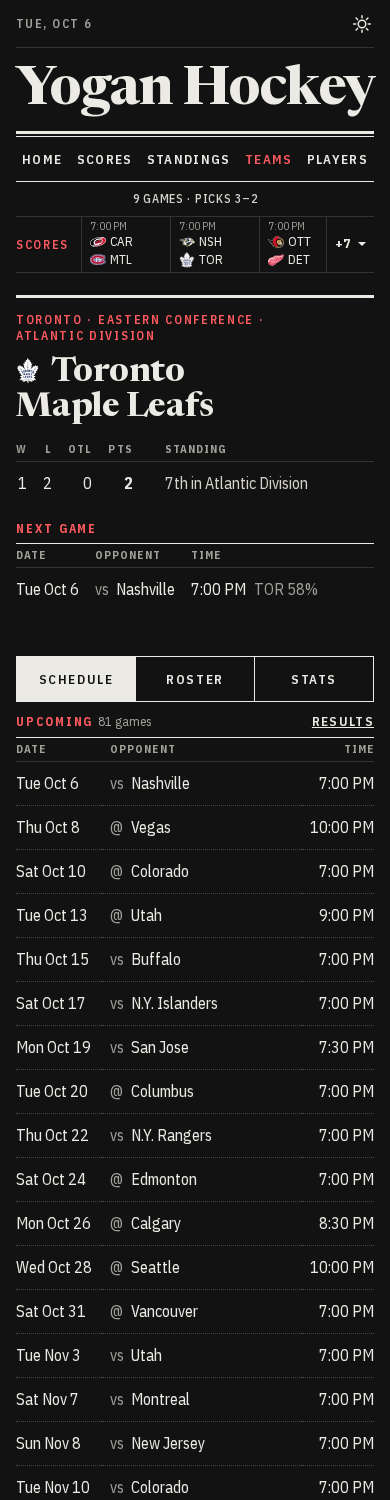
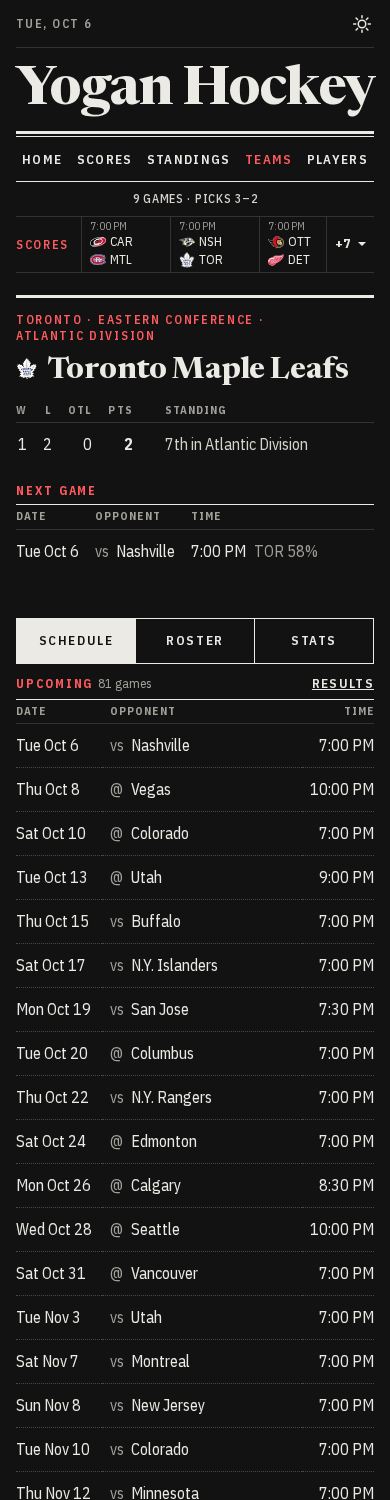
A club's name is one line on its page, so the font's arrival cannot rewrap it (#225)
The Times New Roman fallback sets a club's name 0.7% to 5.5% narrower than
Newsreader and the Noto Serif one 1% wider to 4% narrower, letter by letter, so
no size-adjust keeps 32 names on the same lines at every phone's width. The
team's headline no longer wraps: text-nameplate is the headline's size, or
8.45cqw of the header where the longest name would not fit at it (30px at 390).

scripts/headline-lines.mjs sets every name in each face and counts.

Changed region(s): [[0.0308, 0.2147, 0.9538, 1.0], [0.6462, 0.4293, 0.6769, 0.46]]

diff --git a/apps/web/components/team/team-header.tsx b/apps/web/components/team/team-header.tsx
@@ -9,14 +9,14 @@ import {
 } from "@yogan-hockey/ui/components/ledger";
 import { Section } from "@yogan-hockey/ui/components/section";
 import { type TeamStanding, teamPlace, teamStandingLine } from "../../lib/team-page";
-import { storyHeadline, storyKicker, storyRule } from "../story/type";
+import { nameplate, storyKicker, storyRule } from "../story/type";
 import { TeamMark } from "../team-mark";
 import { EmptyLedger } from "./empty-ledger";
 
 /**
  * The head of a team's page, set as a story is (docs/design/agate.md § Page anatomy): a heavy
  * rule, a red line saying where the team plays and in which conference and division, its name as
- * the headline with its mark, and its record so far in agate, ending in its place in the division.
+ * the headline with its mark (on one line, so the header is the size of its column's container), and its record so far in agate, ending in its place in the division.
  * `standing` is where the league standings have the team; without it the red line is the city
  * alone and the place is a dash.
  */
@@ -31,7 +31,7 @@ export function TeamHeader({
 
   return (
     <Section>
-      <header data-slot="team-header" className={storyRule}>
+      <header data-slot="team-header" className={`@container ${storyRule}`}>
         <p className={storyKicker}>
           {/* A phone breaks the line between two of these, never inside one. */}
           {place.flatMap((part, index) => [
@@ -42,7 +42,7 @@ export function TeamHeader({
             " ",
           ])}
         </p>
-        <h1 className={`mt-3 ${storyHeadline}`}>
+        <h1 className={`mt-3 ${nameplate}`}>
           {/* The one place a team's mark is drawn on its page (agate.md, Decisions). */}
           <TeamMark teamId={team.id} size="headline" eager className="mr-[0.3em]" />
           {team.name}

diff --git a/packages/ui/src/theme.css b/packages/ui/src/theme.css
@@ -25,7 +25,8 @@
  * `text-score` 16px, a score; `text-title` a serif section title, 32px and 30px on a phone.
  * The serif sizes of a story (agate.md § Page anatomy), each with its line and, where the
  * prototype tightens it, its tracking: `text-headline` 34 to 40px with the window, a headline
- * (which also wants `[font-variation-settings:'opsz'_60]`); `text-deck` 18 to 19px, the sentence
+ * (which also wants `[font-variation-settings:'opsz'_60]`); `text-nameplate` a club's name as
+ * its page's headline, the same but for a narrow column; `text-deck` 18 to 19px, the sentence
  * under it; `text-prose` 17px, a line of prose or a pick; `text-stat` 72px and 52px on a phone,
  * the one big figure of a box; `text-figure` 36px, a count in a row of counts.
  * Capitals are tracked by what they are: `tracking-head` a column header and the nav,
@@ -216,6 +217,15 @@
   --text-headline: clamp(34px, 3vw, 40px);
   --text-headline--line-height: 1.02;
   --text-headline--letter-spacing: -0.015em;
+  /*
+   * A club's name as its page's headline, in an `@container` and never wrapped: the headline's
+   * size, or less where the column is too narrow for the longest name at it. "Columbus Blue
+   * Jackets" with its mark is 11.54em wide in Newsreader, so 8.45cqw leaves it 2.5% of the
+   * column, and every name is one line in any face (#225, `scripts/headline-lines.mjs`).
+   */
+  --text-nameplate: min(clamp(34px, 3vw, 40px), 8.45cqw);
+  --text-nameplate--line-height: 1.02;
+  --text-nameplate--letter-spacing: -0.015em;
   --text-deck: clamp(18px, 1.4vw, 19px);
   --text-deck--line-height: 1.4;
   --text-prose: 17px;

diff --git a/apps/web/components/story/type.ts b/apps/web/components/story/type.ts
@@ -14,9 +14,19 @@ export const storyRule = "border-rule border-t-3 pt-3.5 data-live:border-live";
 export const storyKicker =
   "font-label text-kicker text-tag uppercase normal-nums leading-[1.35] tracking-kicker";
 
-/** The serif headline. Its optical size is a class, since a size's token cannot carry one. */
-export const storyHeadline =
-  "text-balance font-serif font-strong text-headline normal-nums [font-variation-settings:'opsz'_60]";
+/** A headline's face. Its optical size is a class, since a size's token cannot carry one. */
+const headlineFace = "font-serif font-strong normal-nums [font-variation-settings:'opsz'_60]";
+
+/** The serif headline. */
+export const storyHeadline = `text-balance text-headline ${headlineFace}`;
+
+/**
+ * A club's name as its page's headline: one line on any screen, a little smaller than a headline
+ * where the column is narrow (30px at 390), inside an `@container`. A name that wrapped did so on
+ * different lines in the fallback face than in Newsreader, and no resizing of the fallback follows
+ * 32 names letter for letter, so the page under it dropped a line when the font arrived (#225).
+ */
+export const nameplate = `whitespace-nowrap text-nameplate ${headlineFace}`;
 
 export const storyDeck = "font-serif text-deck text-note normal-nums";
 

diff --git a/packages/ui/src/cn.test.ts b/packages/ui/src/cn.test.ts
@@ -12,6 +12,7 @@ describe("cn", () => {
   it("lets a later size replace an earlier one, and a later colour an earlier one", () => {
     expect(cn("text-body", "text-small")).toBe("text-small");
     expect(cn("text-note", "text-aside")).toBe("text-aside");
+    expect(cn("text-headline text-note", "text-nameplate")).toBe("text-note text-nameplate");
   });
 
   it("knows a weight token from a typeface", () => {

diff --git a/packages/ui/src/cn.ts b/packages/ui/src/cn.ts
@@ -19,6 +19,7 @@ export const cn = createCn({
         "title",
         "wordmark",
         "headline",
+        "nameplate",
         "deck",
         "prose",
         "stat",

diff --git a/docs/agents/build-notes.md b/docs/agents/build-notes.md
@@ -2,6 +2,15 @@
 
 What earlier tickets learned that the code does not show. Read before building; add a line when you learn something the next subagent would otherwise rediscover. Keep each note to what cannot be found by reading the code.
 
+## A club's name is one line (#225)
+
+- **No `size-adjust` makes a fallback as wide as Newsreader for 32 names.** Set as a team's headline (34px bold, optical size 60, the mark beside it), the letters of a name in the Times New Roman fallback are 0.7% (San Jose Sharks) to 5.5% (Pittsburgh Penguins, Minnesota Wild) narrower than in Newsreader, and in the Noto Serif one 1% wider (Nashville Predators) to 4% narrower (Utah Mammoth). That spread is the letters themselves. Sized for the middle of it a fallback would still be 2.4% out at each end, 8px of a 340px name, so a name within 8px of the column's width changes its lines at the swap on some phone: at 390 it was Toronto and Washington (364 and 363px in a 358px column), at 360 Philadelphia (338px in 328px; two lines in Newsreader and Noto, one in Times). The bold serif's 106.82% is also Home's headlines' ("Kraken 5, Capitals 3"), which pass, so it was left alone and so was every other face.
+- **So the name does not wrap** (`nameplate` in `components/story/type.ts`, `text-nameplate` in `theme.css`): `white-space: nowrap`, and a size of `min(the headline's, 8.45cqw)` of the header, which is an `@container`. The longest name, "Columbus Blue Jackets" with its mark, is 11.54em wide in Newsreader (392.4px at 34px) and no fallback is wider, so 8.45cqw leaves 2.5% of the column: 30.25px at 390, 27.7px at 360, 24.3px at 320, and the headline's own 34px from 434px up. `text-balance` is gone from it, having nothing to balance. A token in `@theme inline` cannot say `var(--text-headline)` (inline tokens are not custom properties in the page), so the clamp is written out twice.
+- **A longer name, or a wider face, overflows to the right rather than wraps.** A club that moves and takes a name over 11.8em wants a smaller `cqw`: `node scripts/headline-lines.mjs <build> [widths]` sets all 32 names from the Teams tab in the team page's own `h1` in Newsreader and in each fallback, prints lines and widths, and exits 1 on a name whose lines differ or that is wider than its column. Run at 320, 340, 360, 375, 390, 393, 402, 412, 414, 428, 430, 434, 440, 480, 600, 767, 768, 1024, 1280 and 1440: one line in every face, nothing over. Georgia and the generic `serif` at the tail of the stack are unsized and unmeasured; a device with neither Times New Roman nor Noto Serif could draw a name wider than its column until Newsreader arrives.
+- **`font-load.mjs` after it**: `/nhl/teams/21 390 held 2000ms` moves 5.1px (0.0016 at the swap) where it moved 35px; every other line is what it was (at most 16px, the player's page, and 0.0051).
+- **`font-fallback-measure.mjs` takes its team names from `main li`, whose text is the name and the abbreviation run together** ("Anaheim DucksANA at Ottawa SenatorsOTT"), so #183's "serif headline" and "serif deck" ratios were measured over names with three capitals on the end. Not changed here: the numbers it gave pass on every page, and correcting the corpus would move all of them. `headline-lines.mjs` reads `main li a`, the name alone.
+- **Pictures retaken**: `team-390-light`, `team-390-dark` and `team-stats-390-dark` (the name on one line at 30px, and the page under it 38px higher), by `node scripts/agate-routes.mjs <dev server> <scratch> team`, which gave the other five `team*` pictures back byte for byte. It needs `pnpm dev`'s migration (`pnpm --filter @yogan-hockey/web db:migrate:local`) before a bare `vite dev`, or `seedPicks` waits 30 seconds for a table that is not there; it does not run against `vite preview`.
+
 ## Favorites were removed (#223)
 
 Ryan asked for it on 2026-10-12: favorite teams and players were ids in the browser's `localStorage`, which the server cannot see, so everything they drew arrived after hydration and moved the page. They come back with Accounts (#132, #133), read on the server by a loader.
@@ -11,7 +20,7 @@ Ryan asked for it on 2026-10-12: favorite teams and players were ids in the brow
 - **The old keys are left in the browser and never read** (`favorite_teams`, `favorite_players`); nothing deletes them. `e2e/dashboard.spec.ts` loads Home with both set and finds no heart and no word "favorite".
 - **What a test waits on now that Favorites cannot say the page has hydrated**: `pageHydrated(page)` in `e2e/test.ts`.
 - **Layout shift on load at 390 wide** (a build under `vite preview` in fixture mode, a phone's CPU and network as `scripts/measure-performance.ts` throttles them, both old keys set, three loads each, all three alike). Before: Home 0.0007, `/nhl/teams/21` 0.0062, `/players` 0.0044, `/nhl/live` 0.0128. After: 0.0007, 0.0253, 0.0012, 0.0012. The 0.0031 of a favorite's game taking the lead of the strip is gone from every page, and the 0.0085 of its row taking the lead of its section from `/nhl/live`. Home's number never showed its Favorites block, which is below a phone's first screen: its page grew 31px after it was drawn (2429 to 2460) and now grows 9px (2318 to 2327).
-- **The team's page at 390 is worse, and it is the fonts, not hydration.** Without the heart the headline has the whole column (358px for 326px). "Toronto Maple Leafs" fits on one line in the fallback serif and takes two in Newsreader, so the page under it moves down 35px when the face arrives (0.0228). With the heart it took two lines in both. Of the 32 clubs' names, two change their number of lines at the swap now (Toronto, Washington) and none did before. `scripts/font-load.mjs` fails on it: `/nhl/teams/21 390 held 2000ms ... moved 35px` against its 32px bar; every other line of it passes. Not fixed in #223: it wants the bold serif's fallback as wide as Newsreader at the headline's size, or a headline that cannot change its lines.
+- **The team's page at 390 is worse, and it is the fonts, not hydration.** Without the heart the headline has the whole column (358px for 326px). "Toronto Maple Leafs" fits on one line in the fallback serif and takes two in Newsreader, so the page under it moves down 35px when the face arrives (0.0228). With the heart it took two lines in both. Of the 32 clubs' names, two change their number of lines at the swap now (Toronto, Washington) and none did before. `scripts/font-load.mjs` fails on it: `/nhl/teams/21 390 held 2000ms ... moved 35px` against its 32px bar; every other line of it passes. Not fixed in #223; #225 did, with a headline that cannot change its lines ("A club's name is one line", next).
 - **What still moves on a load, everywhere**: the strip and the section nav by under a pixel as the faces arrive (0.0003 to 0.0008), and on a team's page the schedule's time column when `LocalTime` rewrites "7:00 PM ET" as the visitor's own (0.0004 and 0.0011).
 - **The kept pictures retaken**: the eight `home-*` (the prototype's Home, shot with `?slate=<slate>&theme=<theme>&chrome=0`, a 900px-high viewport, `America/New_York`, reduced motion, the whole page, and Chromium launched with `--font-render-hinting=none`; no script in the repository makes them, and that recipe gives the pictures of #168 back but for the shade of the live dots and of one letter of the nav, 47 to 297 pixels a picture, and `home-tonight-1440-*` exactly), and of the site `team-390-light`, `team-390-dark`, `team-1440-light`, `team-roster-1440-light`, `team-stats-390-dark`, `player-390-light`, `player-1440-dark`, `players-search-390-light` and `players-search-1440-dark`. The team's pictures also say "7th in Atlantic Division" where the old ones said "6th": `main` already drew 7th, and the old pictures were behind it.
 - **`agate-routes.mjs` rewrites four pictures it has no reason to**: the `scores-*` ones differ from run to run by the "updated" clock and by the shade of the live dots. `git restore` them.
@@ -162,7 +171,7 @@ What each script measures is the first note under "Agate, the whole of it".
 
 The look is `docs/design/agate.md`, which also records the decisions; the sections below are one ticket each, newest first, and what they say about the tuned ledger's shell further down (#153, #139, #138, #130) is history.
 
-- **What measures what.** Home against the prototype: `node scripts/agate-home-compare.mjs <site>`; the masthead and footer: `agate-masthead-compare.mjs`; the primitives: `agate-primitives.mjs <prototype> <site>`; the NHL routes and the team page: `agate-routes.mjs <site>`; the game page, players and error pages: `agate-game-shots.ts <site>`; every tap target on every route at 390: `tap-targets.mjs <site>`; the installed site (manifest, icons, the notch): `install-check.mjs <site>`; the fonts' arrival on a build: `font-load.mjs <build>` (exits 0 since #183); the `size-adjust` each fallback face needs: `font-fallback-measure.mjs <build>`, whose numbers go into `font-fallbacks.ts`, which writes `packages/ui/src/font-fallbacks.css`. `look-shots.mjs`, `look-compare.mjs`, `look-same.mjs` and `team-marks-shots.sh` were the tuned ledger's and are deleted; `look-routes.mjs` is kept as the list of routes the others share. `ticker-shots.mjs <site> <outDir>` (the score strip on `/skeleton/live`'s three slates) and `screenshot.mjs` (one shot, with `--store` and `--eval`) were run on Agate and work as they are.
+- **What measures what.** Home against the prototype: `node scripts/agate-home-compare.mjs <site>`; the masthead and footer: `agate-masthead-compare.mjs`; the primitives: `agate-primitives.mjs <prototype> <site>`; the NHL routes and the team page: `agate-routes.mjs <site>`; the game page, players and error pages: `agate-game-shots.ts <site>`; every tap target on every route at 390: `tap-targets.mjs <site>`; the installed site (manifest, icons, the notch): `install-check.mjs <site>`; the fonts' arrival on a build: `font-load.mjs <build>` (exits 0 since #183, but for #223 to #225); every club's name as its page's headline in each face: `headline-lines.mjs <build> [widths]`; the `size-adjust` each fallback face needs: `font-fallback-measure.mjs <build>`, whose numbers go into `font-fallbacks.ts`, which writes `packages/ui/src/font-fallbacks.css`. `look-shots.mjs`, `look-compare.mjs`, `look-same.mjs` and `team-marks-shots.sh` were the tuned ledger's and are deleted; `look-routes.mjs` is kept as the list of routes the others share. `ticker-shots.mjs <site> <outDir>` (the score strip on `/skeleton/live`'s three slates) and `screenshot.mjs` (one shot, with `--store` and `--eval`) were run on Agate and work as they are.
 - **Every page has exactly one `h1`**, but for Home's own error page (`components/shell/error-page.tsx` at `/`: the wordmark and the error's `PageHeader`, two) and `/skeleton/dashboard` and `/skeleton/picks` (none), which are left. Home's is the wordmark (`Wordmark` in `masthead-client.tsx`, an `h1` on `/` and a paragraph elsewhere, by `usePathname` from `lib/use-page-address.ts`); every other page's is its `PageHeader` or its story's headline. Home's title is the site's name alone.
 - **The wordmark's size, line and tracking are `text-wordmark`**, and its class is `components/shell/wordmark.ts`, which the masthead reads.
 - **The phone's section nav sticks below the status bar** (`top: var(--safe-top)`), and a fixed strip of the page's colour covers what scrolls past above it; both are nothing in a browser tab. `install-check.mjs` scrolls an emulated notched phone and checks it.
@@ -173,7 +182,7 @@ The look is `docs/design/agate.md`, which also records the decisions; the sectio
 - **A file's unused export is not an unused file.** `rg -l TeamName` found only `team-name.tsx`, which also exports `teamHref`; deleting it broke four imports. Typecheck before committing a deletion.
 - **The worktree guard refuses any command line with a heredoc, `$(…)`, a loop, or the word "git" anywhere in it** (a path under `.github` counts). Scripts go in a file written with the editor and run from there.
 - **A final's mark on a phone needs 124px under the status**: "WPG 88% Wrong" is 123px, and the line is `truncate`, so at the old 112px column the mark was cut off whole ("FLA 63%…"). The column is 132px on a phone (`FIXED_GAME_COLUMNS.status`), and the mark there is 16px high with `-my-1`, since a 20px box in a 17px line that hides its overflow loses its top and bottom edge and makes its row 3px taller than the others. `/skeleton/live` draws no pick: to see the marks, give its `LiveScores` a `picks` prop for `sample-1` to `sample-4` and do not commit it.
-- **`font-load.mjs` passed from #183 until #223, measured unhinted; it now fails on a team's page at 390 ("Favorites were removed", near the top).** On #174, with the font files held two seconds, Home at 390 shifted 0.054 and grew 104px (its leads' headlines wrapped on other lines in the fallback than in Newsreader at 34px) and the game page at 390 moved 66px (three scoring plays took a line fewer in Plex). Now every load shifts at most 0.006 at the swap and moves at most 16px (the player's page), and Home and the game page move 0px. The script timed the swap from `loadingdone`, which is the last file's arrival, so it counted no shift at all on Home; it counts from the first font file's `responseEnd`.
+- **`font-load.mjs` passes, measured unhinted; between #223 and #225 it failed on a team's page at 390 ("Favorites were removed" and "A club's name is one line", near the top).** On #174, with the font files held two seconds, Home at 390 shifted 0.054 and grew 104px (its leads' headlines wrapped on other lines in the fallback than in Newsreader at 34px) and the game page at 390 moved 66px (three scoring plays took a line fewer in Plex). Now every load shifts at most 0.006 at the swap and moves at most 16px (the player's page), and Home and the game page move 0px. The script timed the swap from `loadingdone`, which is the last file's arrival, so it counted no shift at all on Home; it counts from the first font file's `responseEnd`.
 - **The fallback faces are the theme's own** (#183). `packages/ui/src/font-fallbacks.css` is written by `node scripts/font-fallbacks.ts` and never edited by hand (Biome skips it; `scripts/font-fallbacks.test.ts` fails when the file is not what the script writes). Each fallback is a regular cut (weights 100 to 599) and a bold cut (600 to 900), since a bold is wider than its regular by a different amount in every face. The fallbacks before #183 were one regular cut each, so a bold headline was a synthesised bold sized for the regular. What was learned making them:
   - **`local("Arial")` and `local("Times New Roman")` find nothing on Linux.** Chromium does not pass a `local()` through fontconfig's aliases, so a fallback that names only those never applied on this machine and what #174 measured was the unsized Liberation faces. The Liberation names are in `src` themselves. Noto's regular answers to `local("Noto Serif Regular")` here, not `local("Noto Serif")`.
   - **Capsize's `size-adjust` is measured, not taken.** `@capsizecss/core` works the width out from how often each letter is used in English, which is within 1% of the site's own text for about half the pairs and 3 to 6% out for the rest (Newsreader regular over Times New Roman: 105.5% against a measured 99.6%), and 5% is a headline's second line. `font-fallback-measure.mjs` sets the site's own text, and every team's name as a headline and as a deck, in the real face and in each local one; its long-line ratio is the `size-adjust`, capsize's number is in a comment above each rule, and capsize still works out the ascent, descent and line gap.
@@ -296,7 +305,7 @@ The spec is `docs/design/agate.md`.
 - **`cn` already knows `font-serif` and `font-agate` are typefaces** (tailwind-merge takes any `font-*` it has not been told is a weight as a family), so neither needs naming in `cn.ts`; `cn.test.ts` holds it.
 - **The weights moved with the face**: `font-body` is 400 and `font-label` 600 (they were 500 and 500 for Geist Mono). The sizes, `py-row` and the spacing scale were still the tuned ledger's in #168 (#172 set Agate's sizes, above), and `--live` is now `var(--kicker)`.
 - **`--positive` by day is #166534, not the tuned ledger's #15803d**, which is 4.8:1 on the page but 4.4:1 on the row under the pointer (`--highlight`). Every text role passes AA on both grounds in both themes, which `packages/ui/src/theme.test.ts` holds; `--label` and `--aside` are one grey. `--input` and `--ring` are that grey too, since `--rule-head` is now a hairline too faint for a control's edge.
-- **The font swap moves a word, not the page, but for a team's headline at 390 since #223** ("Favorites were removed", near the top). #168 measured it so, #174 found it failing on a phone for Home and the game page, and #183 fixed it with the theme's own fallback faces (the notes under "Agate, the whole of it"). The fallbacks used until #183 were Times New Roman and Arial resized to the faces' average width, one regular cut each, not letter for letter as Geist Mono's monospace fallback was. In #168 `scripts/font-load.mjs` with the files held two seconds measured a layout shift at the swap between 0.003 and 0.021 and a ledger cell moving sideways by up to 24px (the player's page). Its bar since #174 is Agate's: it exits 1 over 0.05 of shift or 32px at the swap, on a font from another origin, or on one not preloaded (the italic excepted). Nothing moves on an ordinary load, where the files are preloaded.
+- **The font swap moves a word, not the page** (a team's headline at 390 did move it from #223 to #225: "A club's name is one line", near the top). #168 measured it so, #174 found it failing on a phone for Home and the game page, and #183 fixed it with the theme's own fallback faces (the notes under "Agate, the whole of it"). The fallbacks used until #183 were Times New Roman and Arial resized to the faces' average width, one regular cut each, not letter for letter as Geist Mono's monospace fallback was. In #168 `scripts/font-load.mjs` with the files held two seconds measured a layout shift at the swap between 0.003 and 0.021 and a ledger cell moving sideways by up to 24px (the player's page). Its bar since #174 is Agate's: it exits 1 over 0.05 of shift or 32px at the swap, on a font from another origin, or on one not preloaded (the italic excepted). Nothing moves on an ordinary load, where the files are preloaded.
 - **`vite preview` without `ESPN_FIXTURES=1` leaves tonight's real games in `apps/web/.cloudflare/state`**, and the dev server Playwright starts then shows them (`e2e/shell.spec.ts` read "final 3" where the fixtures have "to come 9"). Delete `apps/web/.cloudflare/state` and run again.
 - **Two worktrees must not share port 5173**: Playwright reuses whatever answers there. `PORT=5391 pnpm test:e2e` gives a run its own dev server.
 

diff --git a/docs/design/agate.md b/docs/design/agate.md
@@ -47,6 +47,7 @@ Both faces are self-hosted: the font files are the site's own (`apps/web/public/
 |---|---|---|---|
 | Wordmark (`text-wordmark`) | Newsreader, opsz 72 | `clamp(54px, 9vw, 120px)` → 54px, less under 390px | 700 / .92 / -0.025em |
 | Headline | Newsreader, opsz 60 | 40 → 34px | 700 / 1.02 / -0.015em, `text-wrap: balance` |
+| A club's name on its page (`text-nameplate`) | Newsreader, opsz 60 | 40 → 34px, less under 434px (30px at 390, 28px at 360) | 700 / 1.02 / -0.015em, no wrap |
 | Section title ("Standings") | Newsreader | 32 → 30px | 700 / 1.1 / -0.01em |
 | Big stat ("29–14") | Newsreader | 72 → 52px | 700 / .95, lining nums, no wrap |
 | Deck | Newsreader | 19 → 18px | 400 / 1.4, `--note` |
@@ -130,7 +131,7 @@ The prototype draws Home only. Every other route is built from the same tokens, 
 - **Scores** (`/nhl/live`) is an agate ledger in sections (In progress, Upcoming, Final, Postponed), not briefs: status, away, home, scores, and a note with the pick and the arena. A final's pick carries the Right or Wrong mark, as a brief's does.
 - **Standings** (`/nhl`) is one agate table per group in four views (league, conference, division, wild card). A team is its agate name and a link named by it; a won column is not coloured, and `--positive` / `--negative` are a goal difference's alone.
 - **Teams** (`/nhl?tab=teams`) is a list in CSS columns read down each column, not a table.
-- **A team's page** opens as a story does: the heavy rule, a red kicker (place, conference, division), the club's name as a serif headline with its mark, then Next Game, and Schedule, Roster and Stats as tabs. In a schedule a win is bold and a loss grey. An opponent is its agate name on a phone and its whole name from `sm` up, in the Next Game card and in the schedule alike.
+- **A team's page** opens as a story does: the heavy rule, a red kicker (place, conference, division), the club's name as a serif headline with its mark, then Next Game, and Schedule, Roster and Stats as tabs. The name is always one line: it is the headline's size where the longest name ("Columbus Blue Jackets") fits the column at it, which is from 434px up, and 8.45% of the column's width under that, as the wordmark shrinks under 390px (#225). In a schedule a win is bold and a loss grey. An opponent is its agate name on a phone and its whole name from `sm` up, in the Next Game card and in the schedule alike.
 - **A game's page** opens with the same story a lead on Home is (kicker, headline, deck, line score with the club marks and the shots, pick line, TV), then the rink, the penalty box and the plays. The rink is ink on paper with the one red for a goal; saves, shots and hits are told apart by weight and filling, with a key under the ice, and no club's colour is used. The score is in the story's header and over the ice.
 - **Players** is a search and agate rows; a player's page is a serif title with his position and club, and ledgers for his season, games and career.
 - **Not found and error pages** are a page title and a sentence of serif prose with a way back; the page of last resort, for a request the site could not answer at all (`apps/web/lib/render-failure.ts`), repeats the wordmark and its double rule in a device's own serif.
@@ -155,7 +156,7 @@ Calls made while building:
 - **The NHL routes.** Scores is an agate ledger, not briefs. Teams is a CSS-column list. Wins are bold and losses grey. A standings row's link is named by the agate name.
 - **The dateline's record of the picks** is read with the page and again whenever the Scoreboard reports a final or a new pick, and not otherwise. (While whole pages were cached it could be about ten minutes old; they no longer are: ADR 0009.)
 - **No live row is tinted**, and `--live-tint` was removed.
-- **The font swap may move a word, not the page**: `scripts/font-load.mjs` allows 0.05 of layout shift and 32px at the swap, and from #183 every load it measures was inside that (at most 0.006 and 16px with the fonts held two seconds). Since #223 one is not: a team's page at 390, where "Toronto Maple Leafs" has the whole column without the heart, fits one line in the fallback and takes two in Newsreader, and the page under it moves 35px (the build notes, "Favorites were removed"). Until a face arrives its text is drawn in a local face resized to it, with a regular and a bold cut each (`packages/ui/src/font-fallbacks.css`): Times New Roman and Arial on iOS, macOS and Windows, Liberation Serif and Liberation Sans on Linux, Noto Serif and Roboto on Android. The script sets type unhinted, as a phone does. With hinting on, which is desktop Chrome on Linux, three loads still move more than 32px: the player's page at 1440 (37px) and the game page at 390 (62px) and 1440 (65px). No real iOS or Android device has been measured.
+- **The font swap may move a word, not the page**: `scripts/font-load.mjs` allows 0.05 of layout shift and 32px at the swap, and from #183 every load it measures was inside that (at most 0.006 and 16px with the fonts held two seconds). From #223 to #225 one was not: a team's page at 390, where "Toronto Maple Leafs" had the whole column without the heart, fitted one line in the fallback and took two in Newsreader, and the page under it moved 35px. A club's name is now one line by rule (`text-nameplate`), and the page moves 5px. Until a face arrives its text is drawn in a local face resized to it, with a regular and a bold cut each (`packages/ui/src/font-fallbacks.css`): Times New Roman and Arial on iOS, macOS and Windows, Liberation Serif and Liberation Sans on Linux, Noto Serif and Roboto on Android. The script sets type unhinted, as a phone does. With hinting on, which is desktop Chrome on Linux, three loads still move more than 32px: the player's page at 1440 (37px) and the game page at 390 (62px) and 1440 (65px). No real iOS or Android device has been measured.
 - **The standings' four view tabs on a phone** are tracked at Tailwind's `tracking-wider` (.05em), not a theme token: at `tracking-head` (.1em) the strip is 3px wider than a 360px phone (measured: 329 in 326).
 
 ## Accessibility
